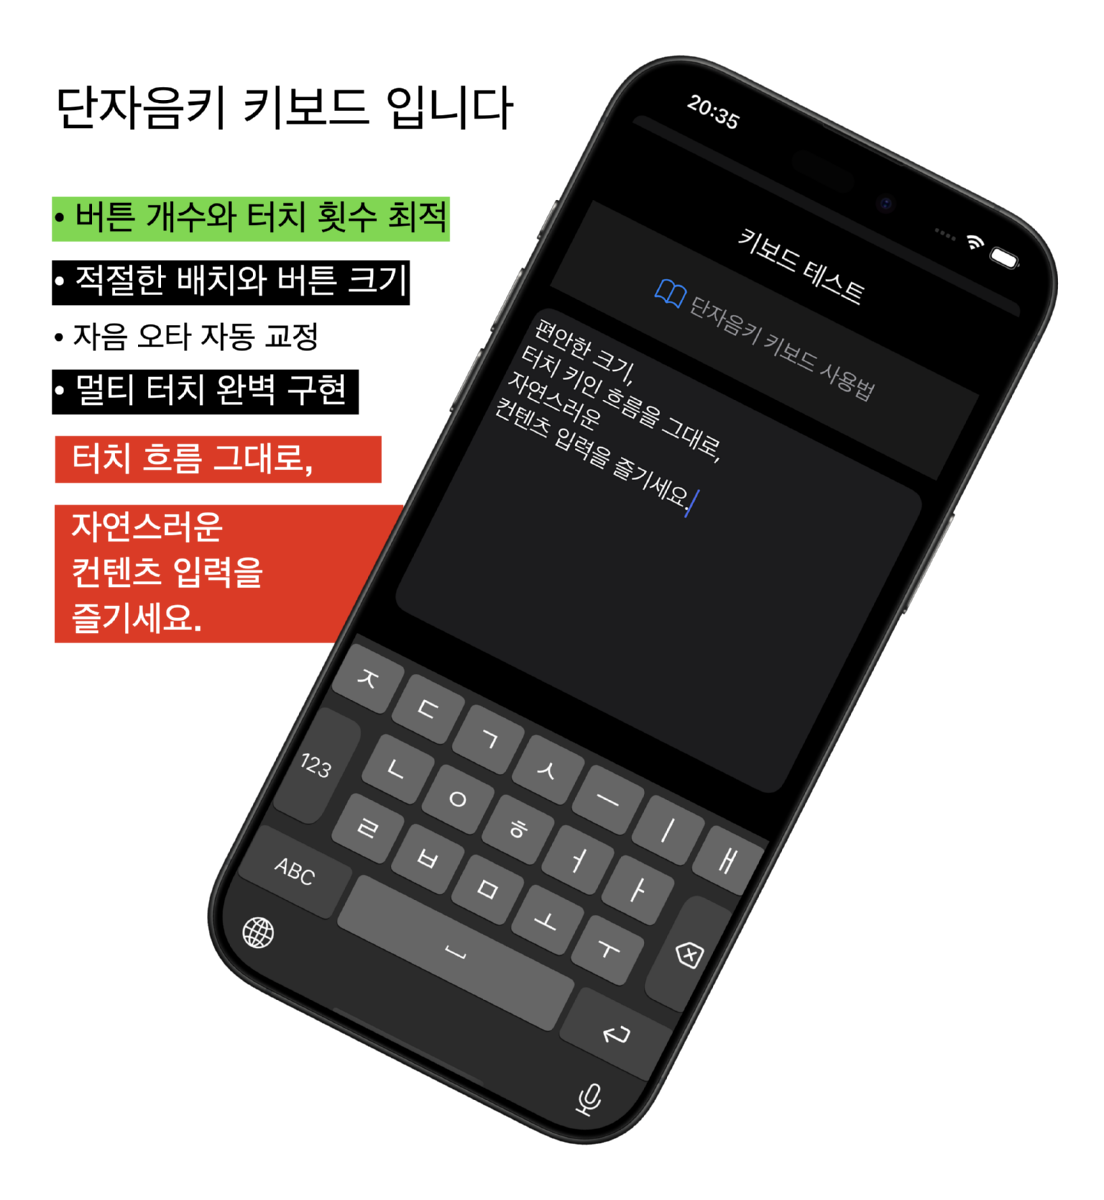
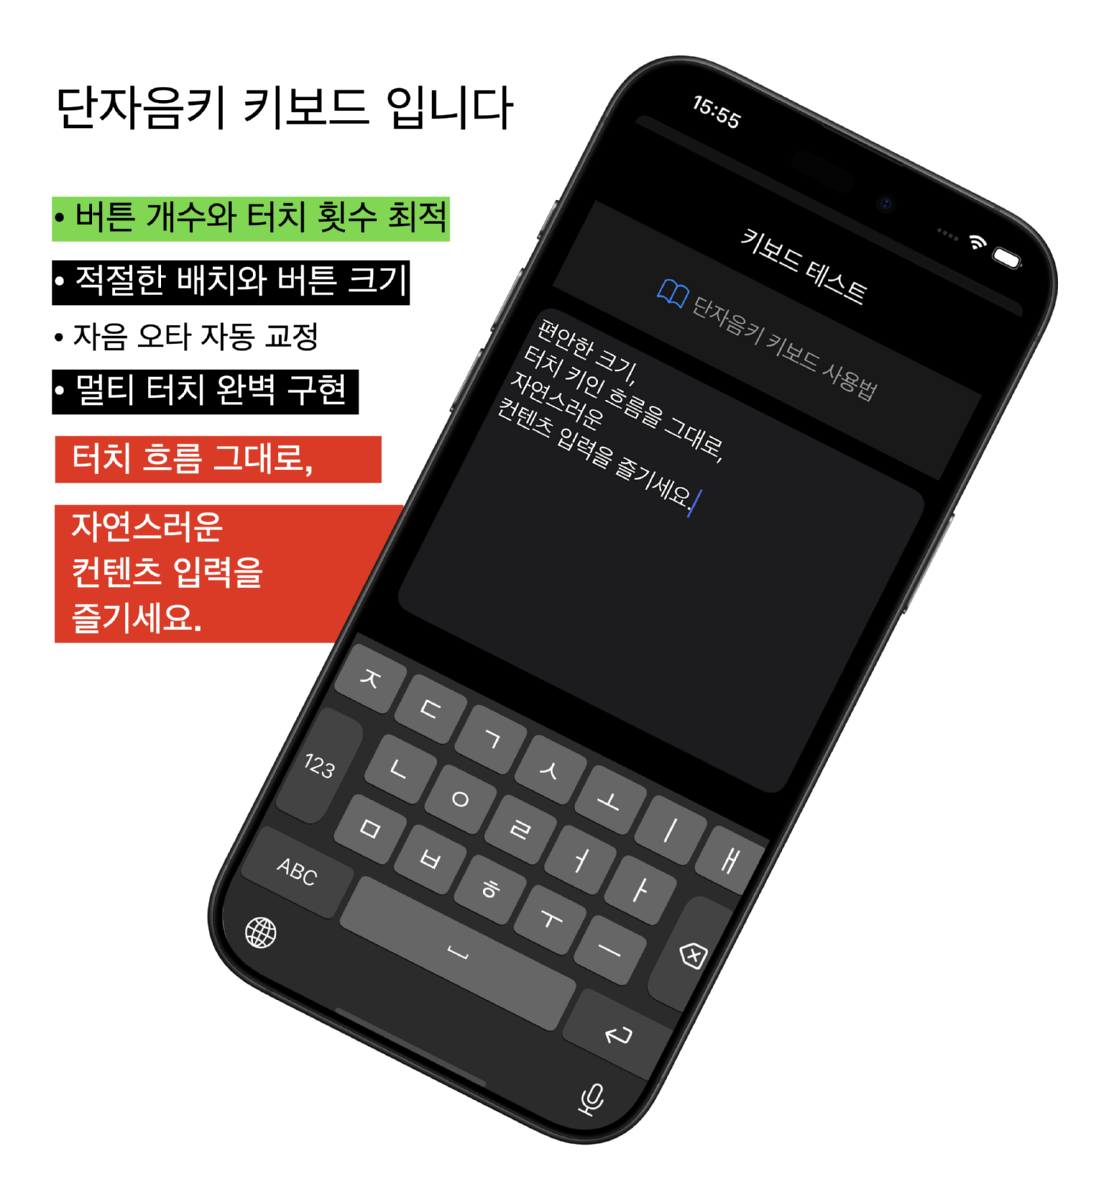
Add files via upload

diff --git a/manual.html b/manual.html
@@ -5,7 +5,7 @@
 	<meta name="viewport" content="width=device-width, initial-scale=1">
 	<meta name="generator" content="RocketCake">
 	<title></title>
-	<link rel="stylesheet" type="text/css" href="manual_html.css?h=1637909b">
+	<link rel="stylesheet" type="text/css" href="manual_html.css?h=2acc56b5">
 </head>
 <body>
 <div class="textstyle1">
@@ -15,12 +15,12 @@
 </div></div><div id="container_5e11d928"><div class="textstyle4"><div id="container_2d7b4969"><div class="textstyle4"><span class="textstyle5"><a href="index.html">Home</a></span><span class="textstyle5"><br/></span><span class="textstyle5"><a href="about.html">About</a></span><span class="textstyle5"><br/></span><span class="textstyle5"><a href="contact.html">Contact</a></span><span class="textstyle5"><br/></span><span class="textstyle6"><a href="manual.html">Manual</a></span><span class="textstyle5"><br/></span></div>
 </div></div>
 </div></div>
-<div style="clear:both"></div></div></div><div id="container_42e1be39"><div class="textstyle1"><img src="rc_images/djmkey_dark_wide_006_1200x800.png" width="1200" height="800" id="img_e90d421" alt="" title="" /></div>
-</div><span class="textstyle7"><br/></span><span class="textstyle8"><br/></span><div id="container_541cc4d"><div id="container_541cc4d_padding" ><div class="textstyle2"><span class="textstyle9"><br/><br/>    </span><span class="textstyle10">&#45800;&#51088;&#51020;&#53412; &#47700;&#45684;&#50620;<br/></span><span class="textstyle9"><br/></span><span class="textstyle9"><br/><br/></span><img src="rc_images/djmkey_light_005_1200x1198.png" width="1200" height="1198" id="img_250423ca" alt="" title="" /><div id="container_5ed9721c"><div id="container_5ed9721c_padding" ><div class="textstyle2"><span class="textstyle11">&#44221;&#51020; &#47564;&#46308;&#44592;</span><span class="textstyle12"><br/>&#50500;&#47000; &#51088;&#49548;&#46308; 4&#44060;&#45716; &#54848;&#46300;&#50629; &#54413;&#49440;&#47568;&#50640;&#49436; &#49440;&#53469;&#54633;&#45768;&#45796; (&#46608;&#45716; &#53552;&#52824;&#54616;&#50668; &#50864;&#52769;&#51004;&#47196; &#48128;&#44592;)<br/><br/>&#12617; &#12600; &#12594; &#12611;</span></div>
-</div></div><span class="textstyle9"><br/><br/><br/></span><img src="rc_images/djmkey_light_006.png" width="1320" height="986" id="img_19690fcc" alt="" title="" /><div id="container_62709428"><div id="container_62709428_padding" ><div class="textstyle2"><span class="textstyle11">&#44201;&#51020; &#47564;&#46308;&#44592;</span><span class="textstyle12"><br/>&#50500;&#47000; &#51088;&#49548;&#46308;&#51008; </span><span class="textstyle13">&#45908;&#48660;&#53552;&#52824;(&#46608;&#45716; &#50672;&#49549;&#53552;&#52824;)</span><span class="textstyle12">&#51077;&#45768;&#45796; <br/><br/>&#51088;&#51020; (&#45908;&#48660;&#53552;&#52824;) : &#12619; &#12620; &#12618; &#12621; &#12614; ..  <br/>&#47784;&#51020; (&#50672;&#49549; or &#45908;&#48660;&#53552;&#52824;) :&#12625; &#12629; &#12635; &#12640; &#12639; .. </span></div>
-</div></div><span class="textstyle9"><br/><br/><br/></span><img src="rc_images/djmkey_light_007.png" width="1320" height="967" id="img_5475a51b" alt="" title="" /><div id="container_4fe2a894"><div id="container_4fe2a894_padding" ><div class="textstyle2"><span class="textstyle11">&#46160;&#48264;&#51704; &#53412; &#47564;&#46308;&#44592;</span><span class="textstyle12"><br/>&#50696;) ' 8 &#8216; &#53412;&#47484; &#50948;&#54644; ' &#12622; '&#53412;&#50640;&#49436; </span>  <span class="textstyle13">&#54848;&#46300;&#50629; &#54980; &#50948;&#47196; &#50424;&#50612;&#50732;&#47548;</span>
+<div style="clear:both"></div></div></div><div id="container_42e1be39"><div class="textstyle2"><img src="rc_images/djmkey_dark_wide_006_1200x604.png" width="1200" height="604" id="img_3bd38d17" alt="" title="" /></div>
+</div><span class="textstyle7"><br/></span><span class="textstyle8"><br/></span><div id="container_541cc4d"><div id="container_541cc4d_padding" ><div class="textstyle2"><span class="textstyle9"><br/><br/>    </span><span class="textstyle10">&#45800;&#51088;&#51020;&#53412; &#47700;&#45684;&#50620;<br/></span><span class="textstyle9"><br/></span><span class="textstyle9"><br/><br/></span><img src="rc_images/djmkey_light_004_1098x1200.png" width="1098" height="1200" id="img_428514aa" alt="" title="" /><div id="container_5ed9721c"><div id="container_5ed9721c_padding" ><div class="textstyle2"><span class="textstyle11">&#44221;&#51020; &#47564;&#46308;&#44592;</span><span class="textstyle12"><br/>&#50500;&#47000; &#51088;&#49548;&#46308; 4&#44060;&#45716; &#54848;&#46300;&#50629; &#54413;&#49440;&#47568;&#50640;&#49436; &#49440;&#53469;&#54633;&#45768;&#45796; (&#46608;&#45716; &#53552;&#52824;&#54616;&#50668; &#50864;&#52769;&#51004;&#47196; &#48128;&#44592;)<br/><br/>&#12617; &#12600; &#12594; &#12611;</span></div>
+</div></div><span class="textstyle9"><br/><br/><br/></span><img src="rc_images/djmkey_light_005.png" width="1320" height="1017" id="img_3a687b5a" alt="" title="" /><div id="container_62709428"><div id="container_62709428_padding" ><div class="textstyle2"><span class="textstyle11">&#44201;&#51020; &#47564;&#46308;&#44592;</span><span class="textstyle12"><br/>&#50500;&#47000; &#51088;&#49548;&#46308;&#51008; </span><span class="textstyle13">&#45908;&#48660;&#53552;&#52824;(&#46608;&#45716; &#50672;&#49549;&#53552;&#52824;)</span><span class="textstyle12">&#51077;&#45768;&#45796; <br/><br/>&#51088;&#51020; (&#45908;&#48660;&#53552;&#52824;) : &#12619; &#12620; &#12618; &#12621; &#12614; ..  <br/>&#47784;&#51020; (&#50672;&#49549; or &#45908;&#48660;&#53552;&#52824;) :&#12625; &#12629; &#12635; &#12640; &#12639; .. </span></div>
+</div></div><span class="textstyle9"><br/><br/><br/></span><img src="rc_images/djmkey_light_006.png" width="1320" height="966" id="img_27fdaa10" alt="" title="" /><div id="container_4fe2a894"><div id="container_4fe2a894_padding" ><div class="textstyle2"><span class="textstyle11">&#46160;&#48264;&#51704; &#53412; &#47564;&#46308;&#44592;</span><span class="textstyle12"><br/>&#50696;) ' 8 &#8216; &#53412;&#47484; &#50948;&#54644; ' &#12622; '&#53412;&#50640;&#49436; </span>  <span class="textstyle13">&#54848;&#46300;&#50629; &#54980; &#50948;&#47196; &#50424;&#50612;&#50732;&#47548;</span>
 </div>
-</div></div><span class="textstyle9"><br/><br/><br/></span><span class="textstyle9"><br/><br/><br/></span><img src="rc_images/djmkey_light_010_1200x1024.png" width="1200" height="1024" id="img_1227c0aa" alt="" title="" /><div id="container_7e510c81"><div id="container_7e510c81_padding" ><div class="textstyle2">  <span class="textstyle11">&#51088;&#51020; &#47784;&#51020; &#46041;&#49884;&#50640; &#45572;&#47476;&#44592; (&#47680;&#54000; &#53552;&#52824;) </span>
+</div></div><span class="textstyle9"><br/><br/><br/><br/><br/><br/></span><img src="rc_images/djmkey_light_008_1200x1025.png" width="1200" height="1025" id="img_2cec44a1" alt="" title="" /><div id="container_7e510c81"><div id="container_7e510c81_padding" ><div class="textstyle2">  <span class="textstyle11">&#51088;&#51020; &#47784;&#51020; &#46041;&#49884;&#50640; &#45572;&#47476;&#44592; (&#47680;&#54000; &#53552;&#52824;) </span>
   <span class="textstyle12"><br/>&#50696;) ' &#44036; ' : </span>
 <span class="textstyle13">&#50628;&#51648;&#47484; &#46524;&#51648; &#50506;&#44256; &#45796;&#47480; &#50628;&#51648;&#47196; &#51088;&#49548;&#47484; &#45572;&#47476;</span><span class="textstyle12">&#45716; &#47680;&#54000; &#53552;&#52824;&#44032; &#50756;&#51204;&#54616;&#44172; &#44396;&#54788;&#46104;&#50612; &#51080;&#49845;&#45768;&#45796; </span></div>
 </div></div><span class="textstyle9"><br/></span><img src="rc_images/djmkey_light_003_552x1200.png" width="552" height="1200" id="img_426fe36" alt="" title="" /><div id="container_4a065c39"><div id="container_4a065c39_padding" ><div class="textstyle2">  <span class="textstyle12"><br/><br/><br/><br/><br/>&#50741;&#49496; &#47588;&#45684;&#51077;&#45768;&#45796;<br/></span>

diff --git a/manual_html.css b/manual_html.css
@@ -17,26 +17,26 @@ body { background-color:#FFFFFF; padding:0;  margin: 0; }
 .textstyle5 { font-size:14pt; font-family:Arial, Helvetica, sans-serif; color:#FFFFFF;  }
 .textstyle6 { font-size:14pt; font-family:Arial, Helvetica, sans-serif; color:#FFFFFF; font-weight:bold;  }
 #container_42e1be39 { vertical-align: top; position:relative; display: inline-block; width:100%; min-height:156px; background-color:#2B252D; background: linear-gradient(to bottom, #9A9AE0, #2B252D);  }
-#img_e90d421 { vertical-align: bottom; position:relative; display: inline-block; width:50%; background:none; height:auto;  }
+#img_3bd38d17 { vertical-align: bottom; position:relative; display: inline-block; width:100%; background:none; height:auto;  }
 .textstyle7 { font-size:15pt; font-family:Segoe, 'Segoe UI', 'Helvetica Neue', sans-serif; color:#20242E;  }
 .textstyle8 { font-size:15pt; font-family:Tahoma, Geneva, sans-serif; color:#20242E;  }
 #container_541cc4d { vertical-align: top; position:relative; display: inline-block; width:90%; min-height:150px; background:none;  }
 #container_541cc4d_padding { margin: 10px; display: block;  }
 .textstyle9 { font-size:12pt; font-family:Arial, Helvetica, sans-serif; color:#000000;  }
 .textstyle10 { font-size:22pt; font-family:Arial, Helvetica, sans-serif; color:#000000; font-weight:bold;  }
-#img_250423ca { vertical-align: bottom; position:relative; display: inline-block; width:50%; background:none; height:auto;  }
+#img_428514aa { vertical-align: bottom; position:relative; display: inline-block; width:50%; background:none; height:auto;  }
 #container_5ed9721c { vertical-align: top; position:relative; display: inline-block; width:50%; min-height:150px; background:none;  }
 #container_5ed9721c_padding { margin: 20px 20px 20px 15px;display: block;  }
 .textstyle11 { font-size:13pt; font-family:Arial, Helvetica, sans-serif; color:#000000; font-weight:bold;  }
 .textstyle12 { font-size:13pt; font-family:Arial, Helvetica, sans-serif; color:#000000;  }
-#img_19690fcc { vertical-align: bottom; position:relative; display: inline-block; width:50%; background:none; height:auto;  }
+#img_3a687b5a { vertical-align: bottom; position:relative; display: inline-block; width:50%; background:none; height:auto;  }
 #container_62709428 { vertical-align: top; position:relative; display: inline-block; width:50%; min-height:150px; background:none;  }
 #container_62709428_padding { margin: 20px 20px 20px 15px;display: block;  }
 .textstyle13 { font-size:13pt; font-family:Arial, Helvetica, sans-serif; color:#000000; text-decoration:underline;  }
-#img_5475a51b { vertical-align: bottom; position:relative; display: inline-block; width:50%; background:none; height:auto;  }
+#img_27fdaa10 { vertical-align: bottom; position:relative; display: inline-block; width:50%; background:none; height:auto;  }
 #container_4fe2a894 { vertical-align: top; position:relative; display: inline-block; width:50%; min-height:150px; background:none;  }
 #container_4fe2a894_padding { margin: 20px 20px 20px 15px;display: block;  }
-#img_1227c0aa { vertical-align: bottom; position:relative; display: inline-block; width:50%; background:none; height:auto;  }
+#img_2cec44a1 { vertical-align: bottom; position:relative; display: inline-block; width:50%; background:none; height:auto;  }
 #container_7e510c81 { vertical-align: top; position:relative; display: inline-block; width:50%; min-height:150px; background:none;  }
 #container_7e510c81_padding { margin: 20px 20px 20px 15px;display: block;  }
 #img_426fe36 { vertical-align: bottom; position:relative; display: inline-block; width:50%; background:none; height:auto;  }

diff --git a/index.html b/index.html
@@ -7,7 +7,7 @@
 <meta name="keywords" content=“단자음키, 단자음키보드, 엄지키, 엄지키보드, 한글키보드추천, 아이폰한글키보드, 한글키, 한글키보드, 단모음, 단키, 넥스트플랜, nextplan, 핸드폰”>
 <meta name="description" content=“단자음키는 핸드폰에서 한글 입력시 단자음 10키와 단모음 8키를 이용하며 자동 오타 교정과 함께 동시 누름 방식을 적용하여 자연스러운 키 입력이 되도록 하였음”>
 <title>단자음키, 단자음 키보드, 한글 키보드</title>
-	<link rel="stylesheet" type="text/css" href="index_html.css?h=959f51a2">
+	<link rel="stylesheet" type="text/css" href="index_html.css?h=6dab0610">
 </head>
 <body>
 <div class="textstyle1">
@@ -17,7 +17,7 @@
 </div></div><div id="container_785dbb6"><div class="textstyle4"><div id="container_77609974"><div class="textstyle4"><span class="textstyle5"><a href="index.html">Home</a></span><span class="textstyle5"><br/></span><span class="textstyle5"><a href="about.html">About</a></span><span class="textstyle5"><br/></span><span class="textstyle5"><a href="contact.html">Contact</a></span><span class="textstyle5"><br/></span><span class="textstyle6"><a href="manual.html">Manual</a></span></div>
 </div></div>
 </div></div>
-<div style="clear:both"></div></div></div><div id="container_4a5a90a8"><div class="textstyle2"><img src="rc_images/djmkey_dark_wide_001_1104x1200.png" width="1104" height="1200" id="img_4902854c" alt="" title="" /></div>
+<div style="clear:both"></div></div></div><div id="container_4a5a90a8"><div class="textstyle2"><img src="rc_images/djmkey_dark_wide_001_1104x1200.png" width="1104" height="1200" id="img_76543de1" alt="" title="" /></div>
 <div class="textstyle1"><span class="textstyle7"><br/></span><a href="about.html" style="text-decoration:none"><div id="button_263f8a00"><div class="vcenterstyle1"><div class="vcenterstyle2"><div class="textstyle2"></div>
 <div class="textstyle1">  <span class="textstyle8">About</span>
 </div>

diff --git a/index_html.css b/index_html.css
@@ -26,7 +26,7 @@ body { background-color:#FFFFFF; padding:0;  margin: 0; }
 .textstyle5 { font-size:14pt; font-family:Arial, Helvetica, sans-serif; color:#FFFFFF;  }
 .textstyle6 { font-size:14pt; font-family:Arial, Helvetica, sans-serif; color:#FFFFFF; font-weight:bold;  }
 #container_4a5a90a8 { vertical-align: top; position:relative; display: inline-block; width:100%; min-height:215px; background:none;  }
-#img_4902854c { vertical-align: bottom; position:relative; display: inline-block; width:100%; background:none; height:auto;  }
+#img_76543de1 { vertical-align: bottom; position:relative; display: inline-block; width:100%; background:none; height:auto;  }
 .textstyle7 { font-size:22pt; font-family:Arial, Helvetica, sans-serif; color:#000000;  }
 .vcenterstyle1 { display: table; width: 100%; height: 100%; }
 .vcenterstyle2 { display: table-cell; vertical-align: middle; }
